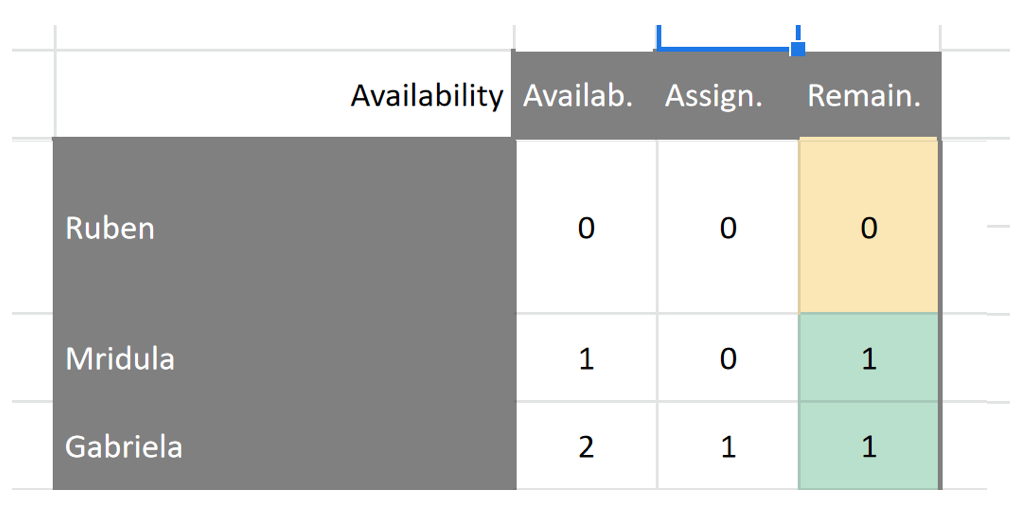
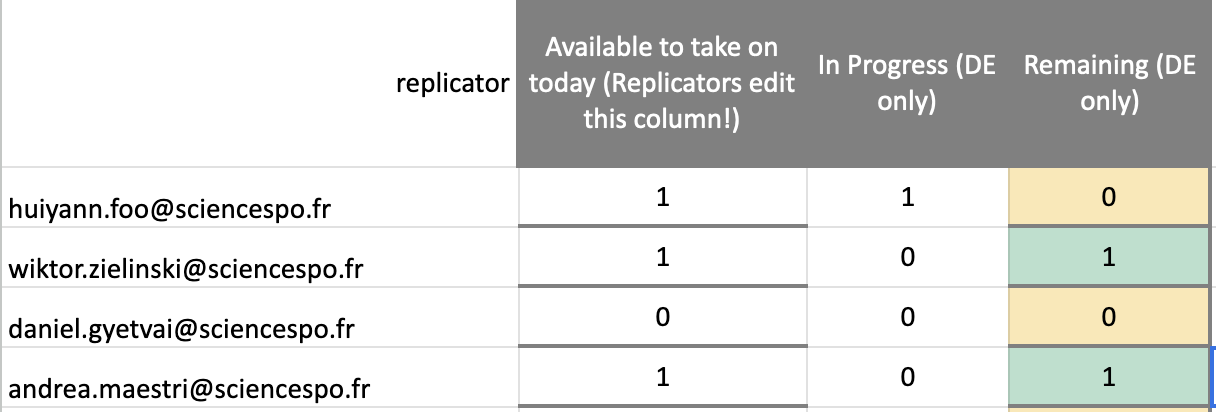
Built site for gh-pages

diff --git a/index.html b/index.html
@@ -406,7 +406,7 @@
     </div>
 </div>
 
-  <p class="date">3 July, 2023</p>
+  <p class="date">23 September, 2023</p>
 </section>
 <section id="agenda" class="slide level2">
 <h2>Agenda</h2>
@@ -604,12 +604,12 @@
 <section id="replicator-availability-on-ss" class="slide level2">
 <h2>Replicator Availability on <strong>SS</strong></h2>
 <ul>
-<li><p>The replicators declare their <em>current</em> availability to handle papers in the corresponding section of the <code>SS</code>,</p></li>
-<li><p>by modifying column <code>Availab.</code></p></li>
-<li><p><code>Availab. = 2</code> would mean that the replicator can handle 2 packages <em>starting today</em>:</p></li>
+<li><p>The replicators declare their <em>current</em> availability to handle papers in the <code>SS</code>, tab <code>Replicator-Availability</code></p></li>
+<li><p>by modifying column <code>Available to take on today (Replicators edit this column!)</code></p></li>
+<li><p>Setting this column to 2 would mean that the replicator can handle 2 packages <em>starting today</em>:</p></li>
 </ul>
 
-<img data-src="images/step3.png" class="r-stretch quarto-figure-center"><p class="caption">Replicator Availability</p></section>
+<img data-src="images/step3.png" class="r-stretch"></section>
 <section id="replicator-timeline" class="slide level2">
 <h2>Replicator Timeline</h2>
 <ol type="1">
@@ -636,19 +636,41 @@
 <section id="workflow-in-detail" class="slide level2">
 <h2>Workflow in Detail</h2>
 <p><strong>Dropbox Setup</strong>:</p>
-<pre><code>├── 1 Key documents
-├── 2. Submitted replication packages    &lt;-----
-├── 3. Replication reports               &lt;-----
-├── 4. Background documents 
-└── 5. Back office Data Editor</code></pre>
+<pre><code>.
+├── EJ-1-key-documents
+├── EJ-2-submitted-replication-packages  &lt;----
+├── EJ-3-replication-reports             &lt;----
+├── EJ-4-background-documents
+├── EJ-5-back-office-data-editor
+├── EJ-6-good-to-go
+└── EJ-7-published-packages</code></pre>
 <ol type="1">
-<li>Replicator navigates to shared <code>DB</code> folder <code>2. Submitted replication packages</code>, and looks for the correct submission number and Author names.</li>
-<li>Downloads a <strong>copy</strong> of <code>3. Replication Package</code> to their local drive.</li>
-<li>initiates a <code>git</code> repository on local machine to track code.</li>
+<li>Replicator navigates to shared <code>DB</code> folder <code>EJ-2-submitted-replication-packages</code>, and looks for the correct submission number and Author names.</li>
+<li>Downloads a <strong>copy</strong> of the package to their local drive.</li>
 </ol>
-<div class="sourceCode" id="cb2"><pre class="sourceCode bash code-with-copy"><code class="sourceCode bash"><span id="cb2-1"><a href="#cb2-1" aria-hidden="true" tabindex="-1"></a><span class="fu">git</span> init </span>
-<span id="cb2-2"><a href="#cb2-2" aria-hidden="true" tabindex="-1"></a><span class="fu">git</span> add .  <span class="co"># the `.` adds everything in current dir</span></span>
-<span id="cb2-3"><a href="#cb2-3" aria-hidden="true" tabindex="-1"></a><span class="fu">git</span> commit <span class="at">-m</span> <span class="st">'initial check-in of code'</span></span></code><button title="Copy to Clipboard" class="code-copy-button"><i class="bi"></i></button></pre></div>
+</section>
+<section id="naming-conventions" class="slide level2">
+<h2>Naming Conventions</h2>
+<div class="callout callout-note callout-titled callout-style-default">
+<div class="callout-body">
+<div class="callout-title">
+<div class="callout-icon-container">
+<i class="callout-icon"></i>
+</div>
+<p><strong>Naming Convention</strong></p>
+</div>
+<div class="callout-content">
+<p>Folders and Files <em>must</em> adhere to the naming convention <code>Lastname-XXXXXXXX</code> where <code>XXXXXXXX</code> is the MS number of the paper.</p>
+</div>
+</div>
+</div>
+<p>This means:</p>
+<ol type="1">
+<li>in <code>EJ-2-submitted-replication-packages</code>, look out for Author’s last name and corresponding MS number.</li>
+<li>In your report, use this exact naming convention, together with the revision number. That is, use</li>
+</ol>
+<pre><code>Lastname-XXXXXXXX-R2.doc</code></pre>
+<p>in revision 2.</p>
 </section>
 <section id="workflow-in-detail-2" class="slide level2">
 <h2>Workflow in Detail 2</h2>
@@ -656,7 +678,7 @@
 <li>Replicator starts clock. ⏰</li>
 <li>Replicator studies the package, follows contained instructions, and tries to reproduce all results in the paper. If the contained instructions are insufficiently precise so that after 60 minutes the replicator has not gained an understanding of how they <em>will be able</em> to reproduce certain results, we abort and go to the next step. This does <em>not</em> include actual runtime, which can be significantly longer.</li>
 <li>Replicator stops clock. ⏰ (Again, if program requires significant runtime, this is not billed as replicator time.)</li>
-<li>Fills in reproducibility report, a template for which is stored in shared <code>DB</code> at <code>3. Replication reports</code></li>
+<li>Fills in reproducibility report, a template for which is stored in shared <code>DB</code> at <code>EJ-3-replication-reports</code></li>
 </ol>
 </section>
 <section id="workflow-in-detail-3" class="slide level2">
@@ -712,17 +734,15 @@
 <li>After upload of authors, we will compute our version of the <code>md5</code> string on the accepted version of the replication package, located here in the shared <code>DB</code>:</li>
 </ul>
 <pre><code>
-├── 2. Submitted replication packages
-    ├── MS_NUMBER_OF_PAPER
-        ├── 3. Replication Package</code></pre>
+├── EJ-2-submitted-replication-packages
+    ├── Lastname-XXXXXXXX-R3
+        ├── 3-replication-package.zip</code></pre>
 <ul>
-<li>The computation of the <code>md5</code> on our side is straightfoward. In <code>R</code>, for example, one would run command</li>
+<li>The computation of the <code>md5</code> on our side is straightfoward. On a Linux command line one would run</li>
 </ul>
-<div class="sourceCode" id="cb4"><pre class="sourceCode bash code-with-copy"><code class="sourceCode bash"><span id="cb4-1"><a href="#cb4-1" aria-hidden="true" tabindex="-1"></a><span class="co"># Assume we navigated into the above directory in `DB`</span></span>
-<span id="cb4-2"><a href="#cb4-2" aria-hidden="true" tabindex="-1"></a><span class="co"># can run this on command line or directly in `R`</span></span>
-<span id="cb4-3"><a href="#cb4-3" aria-hidden="true" tabindex="-1"></a><span class="op">&gt;</span> tools::md5sum<span class="kw">(</span><span class="st">"3 Replication package.zip"</span><span class="kw">)</span></span>
-<span id="cb4-4"><a href="#cb4-4" aria-hidden="true" tabindex="-1"></a>         <span class="ex">3</span> Replication package.zip </span>
-<span id="cb4-5"><a href="#cb4-5" aria-hidden="true" tabindex="-1"></a><span class="st">"93b6634a97954d6cbfefa56f9dff315e"</span> </span></code><button title="Copy to Clipboard" class="code-copy-button"><i class="bi"></i></button></pre></div>
+<div class="sourceCode" id="cb4"><pre class="sourceCode bash code-with-copy"><code class="sourceCode bash"><span id="cb4-1"><a href="#cb4-1" aria-hidden="true" tabindex="-1"></a><span class="ex">$</span> md5sum 3-replication-package.zip</span>
+<span id="cb4-2"><a href="#cb4-2" aria-hidden="true" tabindex="-1"></a></span>
+<span id="cb4-3"><a href="#cb4-3" aria-hidden="true" tabindex="-1"></a><span class="ex">93b6634a97954d6cbfefa56f9dff315e</span> </span></code><button title="Copy to Clipboard" class="code-copy-button"><i class="bi"></i></button></pre></div>
 <ul>
 <li>The string <code>"93b6634a97954d6cbfefa56f9dff315e"</code> needs to match the string on zenodo, or the paper will not be released for publication.</li>
 </ul>
